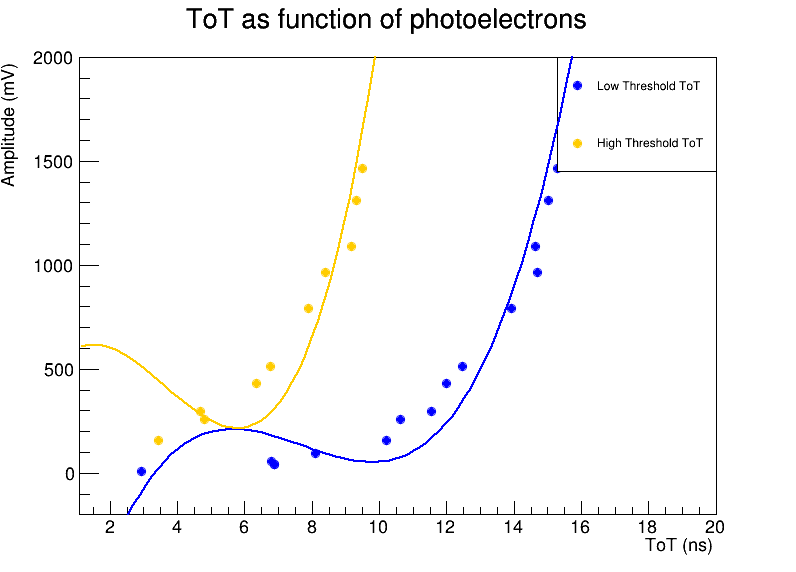
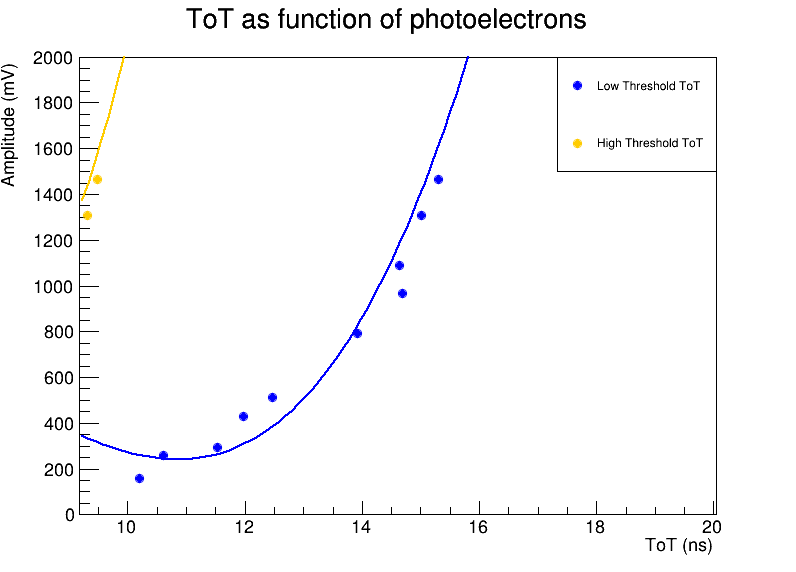
new commit

diff --git a/time_distribution_graph.C b/time_distribution_graph.C
@@ -216,6 +216,7 @@ void processFile(const std::string& filename, std::vector<double>& N, std::vecto
     delete canvas;
 }
 
+
 int main() {
     std::vector<std::string> filenames = {
         "T_smear_0_800.txt", "T_smear_24044_1000.txt",
@@ -233,10 +234,20 @@ int main() {
     for (const std::string& filename : filenames) {
         processFile(filename, N, tot_l, tot_h);
     }
-   
+
+    // Filtraggio dei valori negativi
+    std::vector<double> N_filtered, tot_l_filtered, tot_h_filtered;
+    for (size_t i = 0; i < N.size(); ++i) {
+        if (tot_l[i] >= 0 && tot_h[i] >= 0) {
+            N_filtered.push_back(N[i]);
+            tot_l_filtered.push_back(tot_l[i]);
+            tot_h_filtered.push_back(tot_h[i]);
+        }
+    }
+
     // Creazione del grafico usando ROOT
-    TGraph *gr_low = new TGraph(N.size(), tot_l.data(),N.data());
-    TGraph *gr_high = new TGraph(N.size(), tot_h.data(),N.data());
+    TGraph *gr_low = new TGraph(N_filtered.size(), tot_l_filtered.data(), N_filtered.data());
+    TGraph *gr_high = new TGraph(N_filtered.size(), tot_h_filtered.data(), N_filtered.data());
     // Creazione di una tela per il disegno del grafico
     TCanvas *c1 = new TCanvas("c1", "N vs ToT", 800, 600);
 
@@ -244,8 +255,8 @@ int main() {
     gr_low->SetTitle("ToT as function of photoelectrons ;ToT (ns);Amplitude (mV)");
     gr_low->SetMarkerStyle(20); // Imposta lo stile dei punti
     gr_low->SetMarkerColor(kBlue);
-    gr_low->GetYaxis()->SetRangeUser(-200,2000);
-    gr_low->GetXaxis()->SetRangeUser(-10, 20);
+    gr_low->GetYaxis()->SetRangeUser(0,2000);
+    gr_low->GetXaxis()->SetRangeUser(0, 20);
     gr_low->Draw("AP");
 
     // Disegna il secondo grafico sullo stesso canvas
@@ -260,8 +271,8 @@ int main() {
     legend->Draw();
 
     // Esegui il fitting dei dati
-    TF1 *fit_low = new TF1("fit_low", "pol3", -10, 20); // Fitting con un polinomio di secondo grado
-    TF1 *fit_high = new TF1("fit_high", "pol3", -10, 20);
+    TF1 *fit_low = new TF1("fit_low", "pol3", 0, 20); // Fitting con un polinomio di secondo grado
+    TF1 *fit_high = new TF1("fit_high", "pol3", 0, 20);
 
     gr_low->Fit(fit_low, "R");
     gr_high->Fit(fit_high, "R");
@@ -287,4 +298,7 @@ int main() {
 
     return 0;
 }
+    
+
+
 
